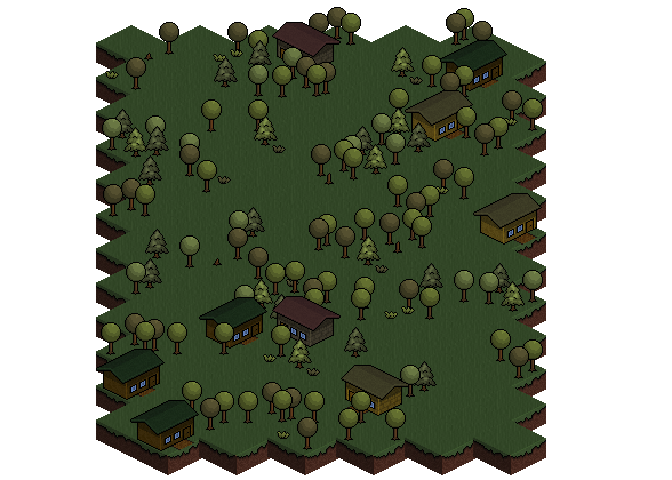
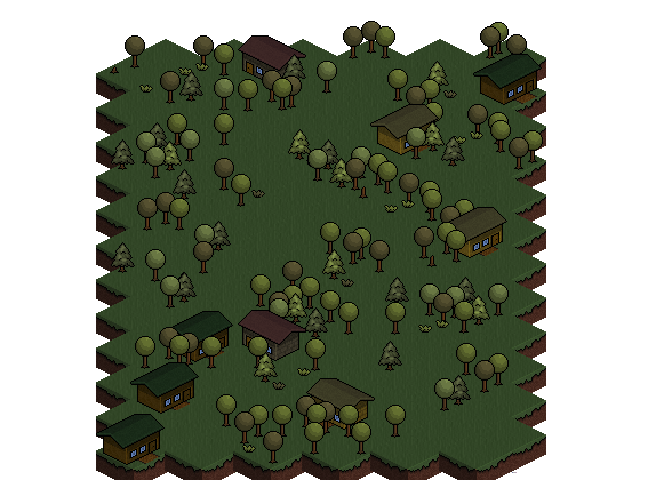
graphic origin is 1,1 at top-left corner

Changed region(s): [[0.125, 0.0, 0.8125, 1.0]]

diff --git a/src/nr-draw.c b/src/nr-draw.c
@@ -17,20 +17,24 @@
 
 //~~~~~~~~~~~~~~~~~~~~~~~~~~~~~~~~~~~~~~~~~~~~~~~~~~~~~~~~~~~~~~~~~~~~~~~~~~~~
 //  Draw a single point on the canvas [C interface]
+// 
+// Coordinate origin is (1, 1) at top-left
 //~~~~~~~~~~~~~~~~~~~~~~~~~~~~~~~~~~~~~~~~~~~~~~~~~~~~~~~~~~~~~~~~~~~~~~~~~~~~
 void draw_point_c(uint32_t *nr, int height, int width, uint32_t color, int x, int y) {
 
   // Check for transparent color
   if (is_transparent(color)) return;
 
-  // Flip y axis. matrices are (1, 1) at top left, we want nara plotted to be
-  // (1, 1) at bottom-left
-  y = height - y;
-  x = x - 1;
-
   // Alpha channel for blending colors
   int alpha = (color >> 24) & 255;
 
+  //~~~~~~~~~~~~~~~~~~~~~~~~~~~~~~~~~~~~~~~~~~~~~~~~~~~~~~~~~~~~~~~~~~~~~~~~~~~
+  // Convert from R (1, 1) orogin to C (0, 0) origin
+  //~~~~~~~~~~~~~~~~~~~~~~~~~~~~~~~~~~~~~~~~~~~~~~~~~~~~~~~~~~~~~~~~~~~~~~~~~~~
+  x--;
+  y--;
+  
+  
   if (y >= 0 && y < height && x >= 0 && x < width) {
       if (alpha == 255) {
         nr[y * width + x] = color;
@@ -63,6 +67,11 @@ void draw_point_c(uint32_t *nr, int height, int width, uint32_t color, int x, in
 //~~~~~~~~~~~~~~~~~~~~~~~~~~~~~~~~~~~~~~~~~~~~~~~~~~~~~~~~~~~~~~~~~~~~~~~~~~~
 void draw_point_sequence_c(uint32_t *nr, int height, int width, uint32_t color, int x1, int x2, int y) {
   
+  // Convert from R (1, 1) orogin to C (0, 0) origin
+  x1--;
+  x2--;
+  y--;
+  
   if (is_transparent(color) || y < 1 || y > height) {
     return;
   }
@@ -75,12 +84,9 @@ void draw_point_sequence_c(uint32_t *nr, int height, int width, uint32_t color, 
   }
   
   // trim to avoid out-of-bound writes
-  if (x1 > width || x2 < 1) return;
-  if (x1 < 1) x1 = 1;
-  if (x2 > width) x2 = width;
-  
-  // inverty 
-  y = height - y;
+  if (x1 >= width || x2 < 0) return;
+  if (x1 < 0) x1 = 0;
+  if (x2 >= width) x2 = width - 1;
   
   if (is_opaque(color)) {
     // draw direct. no need to consider alpha
@@ -316,7 +322,7 @@ SEXP draw_text_(SEXP nr_, SEXP x_, SEXP y_, SEXP str_, SEXP color_, SEXP fontsiz
     for (int row = 0; row < char_h; row ++) {
       for (int i = 0; i < char_w; i++) {
         if (letter[row] & (1 << (8 - i))) {
-          draw_point_c(nr, nr_height, nr_width, color, col + i + x, y + (char_h - 1) - row);
+          draw_point_c(nr, nr_height, nr_width, color, col + i + x, y + (char_h - 1) + row);
         }
       }
     }

diff --git a/src/nr-blit.c b/src/nr-blit.c
@@ -71,7 +71,7 @@ void blit_core_(uint32_t *dst, int x, int y, int dst_width, int dst_height,
   //~~~~~~~~~~~~~~~~~~~~~~~~~~~~~~~~~~~~~~~~~~~~~~~~~~~~~~~~~~~~~~~~~~~~~~~~~~~
   if (respect_alpha) {
     for (int yoff = 0; yoff < h; yoff++) {
-      int y1 = src_height - y0 - yoff;
+      int y1 = y0 + yoff;
       for (int xoff = 0; xoff < w; xoff++) {
         uint32_t src_col = src[y1 * src_width + x0 + xoff - 1];
         draw_point_c(dst, dst_height, dst_width, src_col, x + xoff, y + yoff);
@@ -81,7 +81,7 @@ void blit_core_(uint32_t *dst, int x, int y, int dst_width, int dst_height,
     // Blit it via 'memcpy()' trashing any contents
     // Flip y axis. matrices are (1, 1) at top left,
     for (int yoff = 0; yoff < h; yoff++) {
-      int y1 = src_height - y0 - yoff;
+      int y1 = y0 + yoff;
       memcpy(dst + (dst_height - y - yoff) * dst_width + x - 1, src + y1 * src_width + x0, w * sizeof(int32_t));
     }
   }

diff --git a/README.md b/README.md
@@ -285,15 +285,16 @@ probs[1] <- 30
 nr <- nr_new(420, 420, 'white')
 
 # generate isometric tiles from the top down
-for (y in seq(350, 0, -30)) {
-  select <- sample(tile_idxs, length(even), T, prob = probs)
-  for (i in seq_along(even)) {
-    nr_blit(nr, even[i], y, isometric_landscape[[select[i]]])
-  }
+for (y in seq(0, 350, 30)) {
   
   select <- sample(tile_idxs, length(odd), T, prob = probs)
   for (i in seq_along(odd)) {
     nr_blit(nr,  odd[i], y - 15, isometric_landscape[[select[[i]]]])
+  }
+  
+  select <- sample(tile_idxs, length(even), T, prob = probs)
+  for (i in seq_along(even)) {
+    nr_blit(nr, even[i], y, isometric_landscape[[select[i]]])
   }
 }
 
